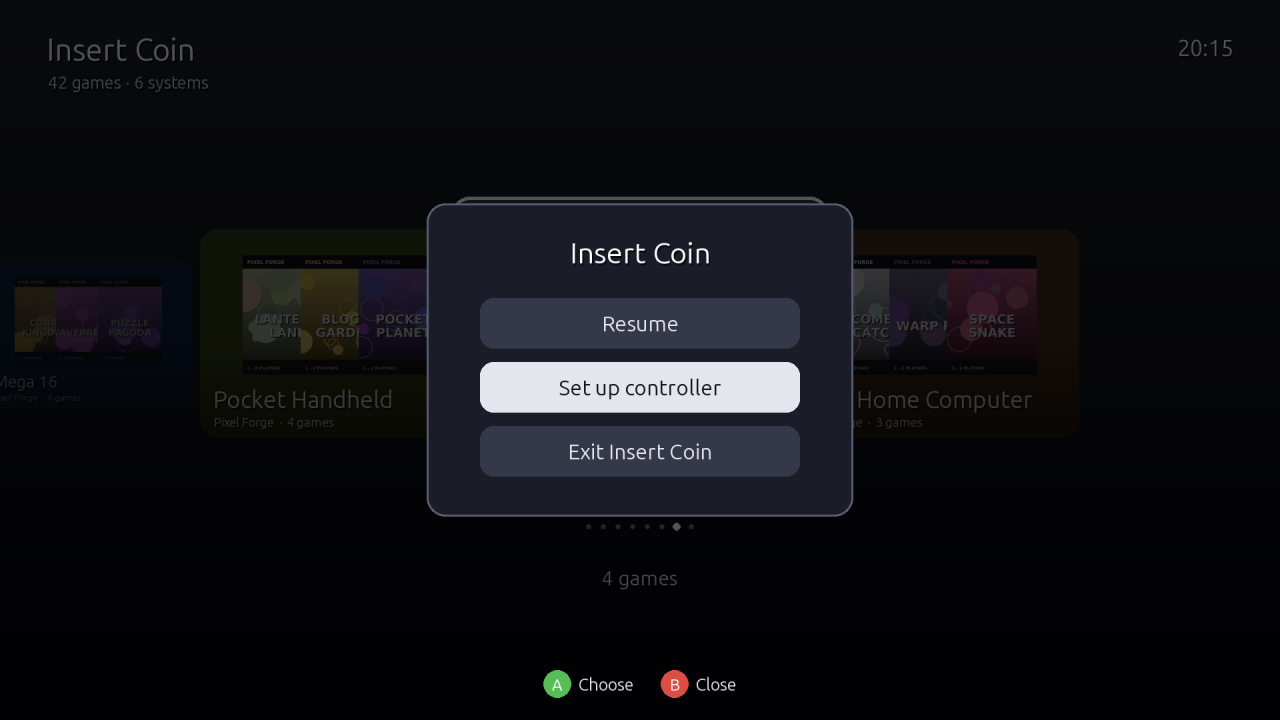
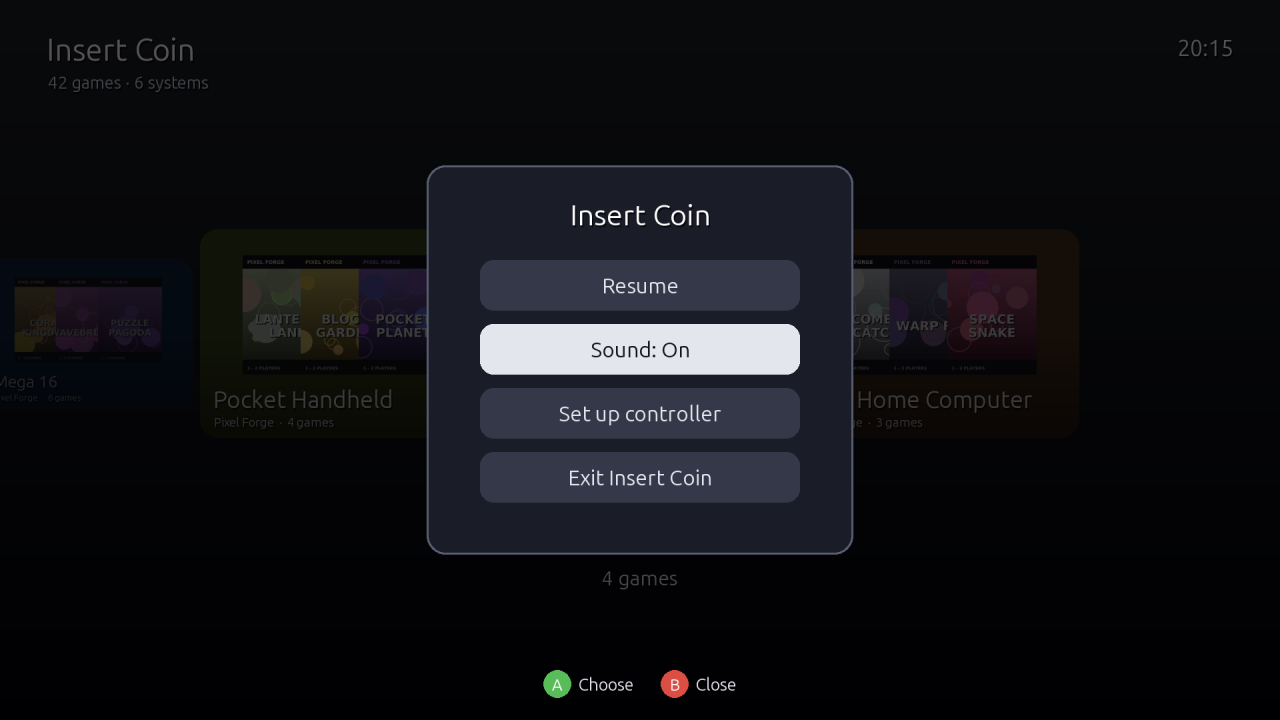
Menu sound effects (0.3.0)
Retro bleeps for scrolling, selecting, going back, jumping by letter and
favorites, a coin jingle when a game starts, and a buzz for errors. The
sounds are synthesised at start-up, so there are no audio files. Sound can
be switched off in the B menu; the choice is saved in settings.json. The
audio device is released while RetroArch runs.

Changed region(s): [[0.3125, 0.2139, 0.6875, 0.7944]]

diff --git a/insert_coin.py b/insert_coin.py
@@ -11,12 +11,13 @@ Controls (Xbox-style pad; keyboard in brackets)
   B                   back            [Backspace / Esc]
   Y                   toggle favorite [F]
   LB / RB             previous / next letter   [PageUp / PageDown]
+  Menu sounds can be switched off in the B menu (saved in ~/.config/insert-coin/settings.json).
   In a game: Select+Start quits back here, click both sticks for RetroArch's menu.
 
 Options: --windowed   run in a window (for testing)
          --shot DIR   render sample screens to PNG files and exit (no display needed)
 """
-__version__ = "0.2.1"
+__version__ = "0.3.0"
 
 import json, os, re, sys, time, random, threading, subprocess, collections
 
@@ -384,6 +385,82 @@ class Fonts:
         return self.f[k]
 
 
+# ---------------------------------------------------------------- sound effects
+class Sounds:
+    """Menu sounds, synthesised at start-up, so there are no audio files. Silent if there is no audio device."""
+    # name -> notes: (start Hz, end Hz, seconds, wave, volume)
+    SPEC = {
+        "move":    [(1250, 1250, .022, "tri", .30)],
+        "system":  [(880, 880, .030, "tri", .32)],
+        "select":  [(660, 660, .045, "sq", .15), (990, 990, .08, "sq", .15)],
+        "back":    [(620, 620, .045, "sq", .13), (415, 415, .08, "sq", .13)],
+        "menu":    [(440, 880, .09, "tri", .30)],
+        "jump":    [(500, 1500, .07, "tri", .26)],
+        "coin":    [(988, 988, .07, "sq", .16), (1319, 1319, .40, "sq", .16)],
+        "fav_on":  [(784, 784, .04, "tri", .32), (988, 988, .04, "tri", .32), (1319, 1319, .13, "tri", .32)],
+        "fav_off": [(988, 988, .05, "tri", .30), (659, 659, .11, "tri", .30)],
+        "error":   [(150, 120, .18, "sq", .13)],
+    }
+
+    def __init__(self, enabled=True, start=True):
+        self.enabled = enabled; self.snd = {}; self.last_tick = 0.0
+        if start: self.open()
+
+    def open(self):
+        try:
+            if not pygame.mixer.get_init(): pygame.mixer.init(44100, -16, 2, 512)
+            rate, fmt, ch = pygame.mixer.get_init()
+            if fmt != -16: return                                   # only 16-bit output is synthesised
+            pygame.mixer.set_reserved(1); self.tick_chan = pygame.mixer.Channel(0)
+            self.snd = {k: pygame.mixer.Sound(buffer=self._synth(v, rate, ch)) for k, v in self.SPEC.items()}
+        except Exception: self.snd = {}
+
+    @staticmethod
+    def _synth(notes, rate, ch):
+        import array
+        out = array.array("h"); phase = 0.0
+        for f0, f1, dur, wave, vol in notes:
+            n = int(rate * dur); attack = rate * .003
+            for i in range(n):
+                t = i / n; phase = (phase + (f0 + (f1 - f0) * t) / rate) % 1.0
+                v = (1.0 if phase < .5 else -1.0) if wave == "sq" else 4 * abs(phase - .5) - 1
+                env = min(1.0, i / attack) * (1 - t) ** 1.5          # quick attack, smooth decay: no clicks
+                out.extend([int(v * env * vol * 32767)] * ch)
+        return out.tobytes()
+
+    def play(self, name):
+        if not self.enabled or name not in self.snd: return
+        if name in ("move", "system"):                              # scrolling: one tick at a time, never a pile-up
+            now = time.time()
+            if now - self.last_tick < .04: return
+            self.last_tick = now; self.tick_chan.play(self.snd[name])
+        else: self.snd[name].play()
+
+    def finish(self, limit=.7):
+        """Let a playing sound end (before the audio device is handed to RetroArch)."""
+        end = time.time() + limit
+        while self.snd and pygame.mixer.get_busy() and time.time() < end: pygame.time.wait(10)
+
+    def close(self):
+        self.snd = {}
+        try: pygame.mixer.quit()
+        except Exception: pass
+
+
+DEFAULT_SETTINGS = {"sound": True}
+
+def load_settings():
+    try:
+        with open(f"{CONFDIR}/settings.json") as f: return {**DEFAULT_SETTINGS, **json.load(f)}
+    except Exception: return dict(DEFAULT_SETTINGS)
+
+def save_settings(s):
+    os.makedirs(CONFDIR, exist_ok=True)
+    tmp = f"{CONFDIR}/settings.json.tmp"
+    with open(tmp, "w") as f: json.dump(s, f, indent=2)
+    os.replace(tmp, f"{CONFDIR}/settings.json")
+
+
 def text(surf, font, s, pos, color=(255, 255, 255), anchor="topleft", shadow=True, maxw=None):
     if maxw:
         while font.size(s)[0] > maxw and len(s) > 4: s = s[:-2].rstrip() + "…" if not s.endswith("…") else s[:-2].rstrip() + "…"
@@ -427,7 +504,10 @@ def shade(c, f):
 class App:
     def __init__(self, windowed=False, shot=None):
         self.windowed, self.shot = windowed, shot
+        pygame.mixer.pre_init(44100, -16, 2, 512)
         pygame.init(); sdlc.init()
+        self.settings = load_settings()
+        self.sfx = Sounds(enabled=self.settings["sound"], start=not shot)
         self.open_display()
         self.fonts = Fonts()
         self.lib = Library()
@@ -495,7 +575,7 @@ class App:
             baseline = {k: j.get_axis(k) for k in range(j.get_numaxes())} if j else {}
         self.setup = {"iid": iid, "name": name or (j.get_name() if j else "Controller"), "guid": guid or (j.get_guid() if j else ""),
                       "step": 0, "map": {}, "base": baseline, "wait": None, "msg": "", "prev": self.screen_mode}
-        self.screen_mode = "setup"; self.hold.clear()
+        self.screen_mode = "setup"; self.hold.clear(); self.sfx.play("menu")
 
     def setup_input(self, e):
         s = self.setup
@@ -519,12 +599,13 @@ class App:
         used = next((a for a, v in s["map"].items() if v == cand), None)
         if used:
             label = next(w for a2, _, w, _ in SETUP_STEPS if a2 == used)
-            s["msg"] = f"That one is already {label} - try another"; return
+            s["msg"] = f"That one is already {label} - try another"; self.sfx.play("error"); return
         s["map"][act] = cand; s["msg"] = ""; self.next_setup_step()
 
     def next_setup_step(self):
         s = self.setup; s["step"] += 1
-        if s["step"] < len(SETUP_STEPS): return
+        if s["step"] < len(SETUP_STEPS): self.sfx.play("move"); return
+        self.sfx.play("select")
         self.saved_maps[s["guid"] or s["name"]] = {"name": s["name"], "map": s["map"]}
         try: self.save_maps()
         except Exception as e: self.say(f"Could not save the controller set-up: {e}")
@@ -534,7 +615,7 @@ class App:
 
     def cancel_setup(self):
         self.screen_mode = self.setup["prev"] if self.setup["prev"] != "quit" else "systems"; self.setup = None
-        self.say("Controller set-up cancelled")
+        self.say("Controller set-up cancelled"); self.sfx.play("back")
 
     def raw_input(self, e):
         """Turn a set-up pad's raw joystick events into menu actions."""
@@ -560,15 +641,20 @@ class App:
 
     def say(self, msg, secs=2.0): self.toast = (msg, time.time() + secs)
 
+    def err(self, msg): self.say(msg); self.sfx.play("error")
+
     # -- actions
     def move(self, d):
+        """Move the selection; returns True if it moved (a list end makes no sound)."""
         if self.screen_mode == "systems":
-            self.si = (self.si + d) % len(self.lib.systems)
+            old = self.si; self.si = (self.si + d) % len(self.lib.systems); return self.si != old
         elif self.screen_mode == "games":
             n = len(self.games())
-            if n: self.gi[self.sys["id"]] = max(0, min(n - 1, self.cur_gi() + d))
+            if n:
+                old = self.cur_gi(); self.gi[self.sys["id"]] = max(0, min(n - 1, old + d)); return self.cur_gi() != old
         elif self.screen_mode == "quit":
-            self.quit_sel = (self.quit_sel + (1 if d > 0 else -1)) % len(self.POWER_MENU)
+            self.quit_sel = (self.quit_sel + (1 if d > 0 else -1)) % len(self.POWER_MENU); return True
+        return False
 
     def jump_letter(self, d):
         if self.screen_mode != "games": return
@@ -583,19 +669,27 @@ class App:
             else:
                 L = gs[start].letter; j = start
                 while j > 0 and gs[j - 1].letter == L: j -= 1
+        if j != i: self.sfx.play("jump")
         self.gi[self.sys["id"]] = j; self.jump = (gs[j].letter, time.time() + 0.9)
 
     def accept(self):
         if self.screen_mode == "systems":
-            self.screen_mode = "games"; self.gpos = float(self.cur_gi())
+            self.screen_mode = "games"; self.gpos = float(self.cur_gi()); self.sfx.play("select")
         elif self.screen_mode == "games":
             g = self.cur_game()
             if g: self.launch(g)
         elif self.screen_mode == "quit":
             choice = self.POWER_MENU[self.quit_sel]
-            if choice == "Resume": self.screen_mode = "systems"
+            if choice == "Resume": self.screen_mode = "systems"; self.sfx.play("back")
             elif choice == "Exit Insert Coin": self.running = False
-            else: self.setup_from_menu()
+            elif choice.startswith("Sound"): self.toggle_sound()
+            else: self.sfx.play("select"); self.setup_from_menu()
+
+    def toggle_sound(self):
+        self.settings["sound"] = self.sfx.enabled = not self.sfx.enabled
+        try: save_settings(self.settings)
+        except Exception as e: self.say(f"Could not save the setting: {e}")
+        self.sfx.play("select")                                     # only heard when it was switched on
 
     def setup_from_menu(self):
         """Set up (or redo) the unrecognised controller used last, or say why it isn't needed."""
@@ -608,16 +702,17 @@ class App:
         self.start_setup(iid)
 
     def back(self):
-        if self.screen_mode == "games": self.screen_mode = "systems"
-        elif self.screen_mode == "systems": self.screen_mode = "quit"; self.quit_sel = 0
-        else: self.screen_mode = "systems"
+        if self.screen_mode == "games": self.screen_mode = "systems"; self.sfx.play("back")
+        elif self.screen_mode == "systems": self.screen_mode = "quit"; self.quit_sel = 0; self.sfx.play("menu")
+        else: self.screen_mode = "systems"; self.sfx.play("back")
 
     def favorite(self):
         g = self.cur_game() if self.screen_mode == "games" else None
         if not g: return
         if subprocess.run(["pgrep", "-x", "retroarch"], capture_output=True).returncode == 0:
-            self.say("Close RetroArch first to change favorites"); return
+            self.err("Close RetroArch first to change favorites"); return
         added = self.lib.toggle_favorite(g)
+        self.sfx.play("fav_on" if added else "fav_off")
         self.say(("Added to Favorites: " if added else "Removed from Favorites: ") + g.title)
         sid = self.sys["id"]; self.lib.refresh_specials()
         self.si = next((i for i, s in enumerate(self.lib.systems) if s["id"] == sid), 0)
@@ -625,10 +720,11 @@ class App:
 
     def launch(self, g):
         if not g.core:
-            self.say("No core is set for this game yet - assign one in RetroArch"); return
+            self.err("No core is set for this game yet - assign one in RetroArch"); return
         if not os.path.exists(g.path.split("#")[0]):
-            self.say("ROM file not found"); return
-        self.draw(); self.splash(g)
+            self.err("ROM file not found"); return
+        self.sfx.play("coin"); self.draw(); self.splash(g)
+        self.sfx.finish(); self.sfx.close()                          # hand the audio device to RetroArch
         os.makedirs(APPDIR, exist_ok=True)
         with open(f"{APPDIR}/launch.cfg", "w") as f: f.write(LAUNCH_CFG)
         pygame.display.quit()
@@ -637,14 +733,14 @@ class App:
             subprocess.run(["retroarch", "-L", g.core, g.path, f"--appendconfig={APPDIR}/launch.cfg"],
                            stdout=subprocess.DEVNULL, stderr=subprocess.DEVNULL)
         except Exception as e:
-            self.say(f"Could not start RetroArch: {e}")
-        pygame.display.init(); self.open_display(); self.open_pads()
+            self.err(f"Could not start RetroArch: {e}")
+        pygame.display.init(); self.open_display(); self.open_pads(); self.sfx.open()
         self.img.cache.clear(); self.prev_bg = None
         pygame.event.clear(); self.hold.clear()
         sid, gid = self.sys["id"], self.cur_gi()
         self.lib.refresh_specials()
         self.si = next((i for i, s in enumerate(self.lib.systems) if s["id"] == sid), 0); self.gi[sid] = gid
-        if time.time() - t0 < 3: self.say("The game closed straight away - it may need a different core")
+        if time.time() - t0 < 3: self.err("The game closed straight away - it may need a different core")
 
     # -- input handling with key repeat
     REPEAT_FIRST, REPEAT = 0.32, 0.075
@@ -656,7 +752,7 @@ class App:
         if act in ("left", "right", "up", "down"):
             d = -1 if act in ("left", "up") else 1
             if self.screen_mode == "games" and act in ("up", "down"): d *= 10
-            self.move(d)
+            if self.move(d): self.sfx.play("system" if self.screen_mode == "systems" else "move")
         elif act == "a": self.accept()
         elif act == "b": self.back()
         elif act == "y": self.favorite()
@@ -913,12 +1009,14 @@ class App:
             text(self.screen, self.fonts(150, True), self.jump[0], (cx, cy), anchor="center")
         self.draw_hints([("a", "Play"), ("b", "Back"), ("y", "Favorite"), ("lbrb", "Jump A–Z")])
 
-    POWER_MENU = ("Resume", "Set up controller", "Exit Insert Coin")
+    @property
+    def POWER_MENU(self):
+        return ("Resume", f"Sound: {'On' if self.sfx.enabled else 'Off'}", "Set up controller", "Exit Insert Coin")
 
     def draw_quit(self):
         self.draw_systems(hints=False)
         dim = pygame.Surface((W, H), pygame.SRCALPHA); dim.fill((0, 0, 0, 170)); self.screen.blit(dim, (0, 0))
-        box = pygame.Rect(0, 0, 640, 470); box.center = (W / 2, H / 2)
+        box = pygame.Rect(0, 0, 640, 200 + 96 * len(self.POWER_MENU)); box.center = (W / 2, H / 2)
         rrect(self.screen, (28, 30, 42), box, 28); rrect(self.screen, (90, 95, 115), box, 28, 3)
         text(self.screen, self.fonts(44, True), "Insert Coin", (W / 2, box.top + 48), anchor="midtop")
         for k, lbl in enumerate(self.POWER_MENU):

diff --git a/README.md b/README.md
@@ -5,7 +5,7 @@
 Pick a system, scroll through the box art, press **A** to play. No keyboard, no settings menus —
 just your games, the way a console shows them.
 
-> **Status: 0.2.1 — early release.** Tested on Linux Mint 22.3 (Cinnamon, X11) with Xbox-style and
+> **Status: 0.3.0 — early release.** Tested on Linux Mint 22.3 (Cinnamon, X11) with Xbox-style and
 > PlayStation controllers. It hasn't been tried on other
 > setups yet, so expect rough edges and please [report them](CONTRIBUTING.md).
 >
@@ -55,6 +55,9 @@ vice versa.
   RetroArch's databases know them. Games without artwork get a clean name card.
 - **Favorites** — press **Y** on any game to add or remove it.
 - **Jump by letter** — **LB / RB** skip through long lists alphabetically.
+- **Menu sounds** — retro bleeps for scrolling, selecting, going back and favorites, and a coin
+  jingle when a game starts. All sounds are generated by the program itself (no audio files).
+  Switch them off in the menu: **B** on the home screen → **Sound: On / Off**.
 - **Controller shortcuts in games** — **Select + Start** quits back to Insert Coin;
   clicking **both sticks** opens RetroArch's menu for save states and settings.
 - **Works with any controller** — Xbox, PlayStation and Nintendo Switch pads are recognised
@@ -71,7 +74,7 @@ vice versa.
 |---|---|
 | ![Home screen: a carousel of systems, each with a fan of its box art](docs/screenshots/home.png) | ![Favorites, shared with RetroArch's own favorites list](docs/screenshots/favorites.png) |
 | **Home** — every system, plus Favorites and Recently Played | **Favorites** — press Y on any game |
-| ![The menu: Resume, Set up controller, Exit Insert Coin](docs/screenshots/menu.png) | ![Controller set-up: press the button you want for each action](docs/screenshots/controller_setup.png) |
+| ![The menu: Resume, Sound on/off, Set up controller, Exit Insert Coin](docs/screenshots/menu.png) | ![Controller set-up: press the button you want for each action](docs/screenshots/controller_setup.png) |
 | **Menu** — B on the home screen | **Controller set-up** — for pads that aren't recognised |
 
 Button hints follow the controller in your hand — Xbox, PlayStation, Switch / SNES-style, or keyboard:
@@ -86,7 +89,7 @@ Button hints follow the controller in your hand — Xbox, PlayStation, Switch / 
 |---|---|---|
 | D-pad / left stick | Arrow keys | Move · up/down skips 10 games |
 | **A** or Start | Enter | Open a system · play a game |
-| **B** or Back | Esc / Backspace | Back · on the home screen: the menu (Resume · Set up controller · Exit) |
+| **B** or Back | Esc / Backspace | Back · on the home screen: the menu (Resume · Sound on/off · Set up controller · Exit) |
 | **Y** | F | Add / remove favorite |
 | **LB / RB** | Page Up / Page Down | Previous / next letter |
 
@@ -263,6 +266,7 @@ can overwrite each other's settings.
 | `~/.local/share/insert-coin/launch.cfg` | Each game launch: the in-game controller shortcuts, passed to RetroArch with `--appendconfig` |
 | `~/.cache/insert-coin/meta/` | Cached year/publisher lookups |
 | `~/.config/insert-coin/controllers.json` | Button set-ups for controllers that aren't recognised automatically |
+| `~/.config/insert-coin/settings.json` | Your settings (currently: menu sounds on or off) |
 
 **Note:** RetroArch saves its settings when it closes, so the in-game shortcuts
 (Select + Start to quit, L3 + R3 for the menu) become part of your RetroArch configuration
@@ -280,6 +284,7 @@ and also work when you run RetroArch on its own. You can change them in RetroArc
 | **Controller does nothing** | Press a button: an unrecognised controller opens the set-up screen. If nothing happens, check the controller works in RetroArch (`retroarch --version`, Settings → Input). Keyboard controls always work. |
 | **Set up a controller wrongly** | **B** on the home screen → **Set up controller** to do it again, or delete `~/.config/insert-coin/controllers.json`. |
 | **Can't quit a game with the controller** | Press Select + Start together. If that was changed in RetroArch, use your RetroArch hotkey or the Esc key. |
+| **No menu sounds** | Check **B** on the home screen shows **Sound: On**, and that your system volume is up. Without a working audio device Insert Coin simply runs silently. Game sound is handled by RetroArch and isn't affected. |
 | **Stutters while scrolling the first time** | Artwork loads in the background on first view, then stays cached for the session. |
 
 ## Uninstall
